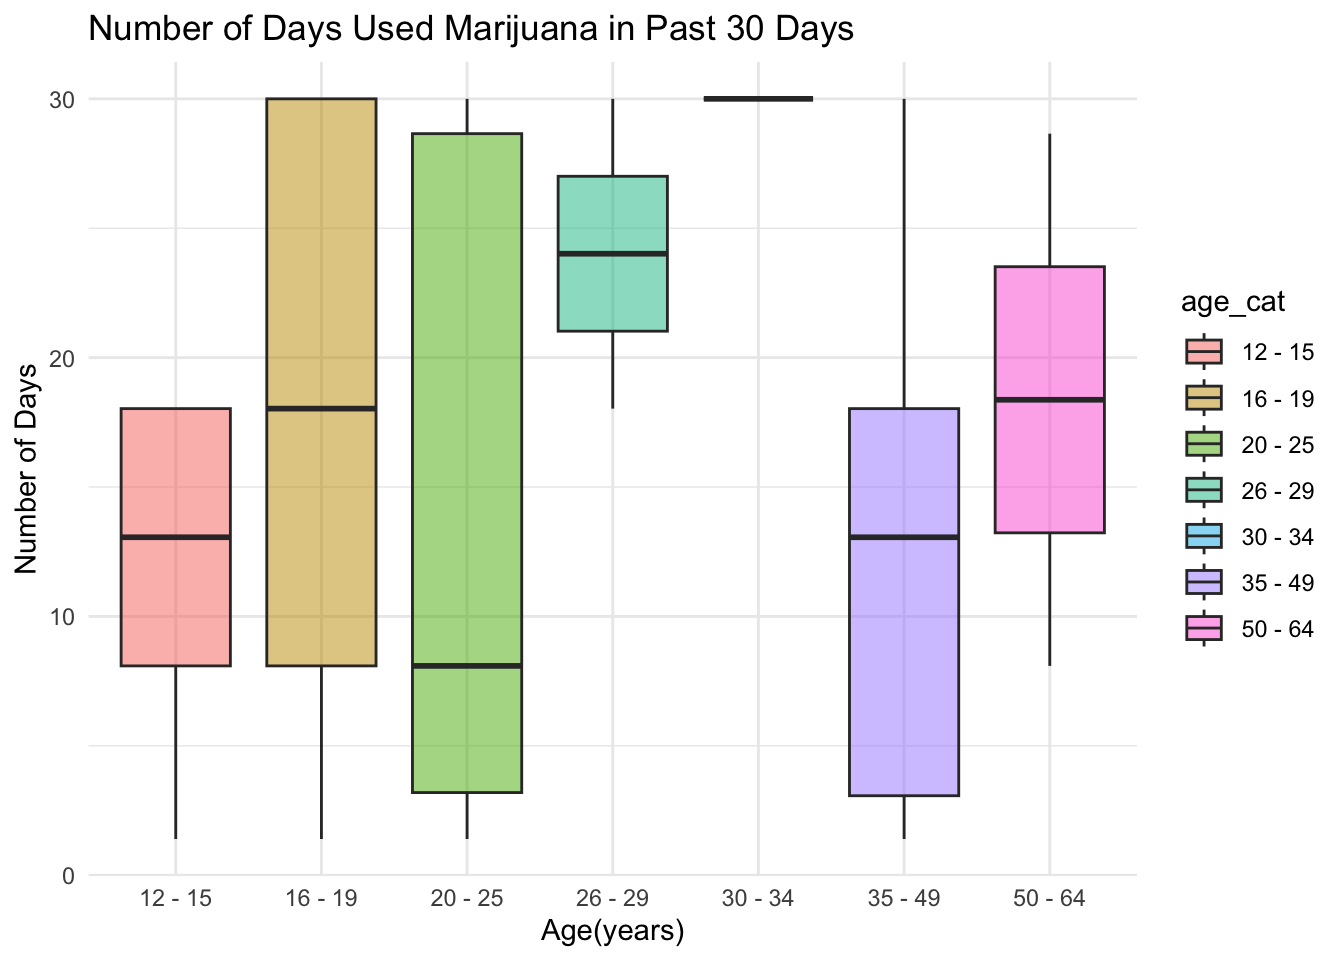
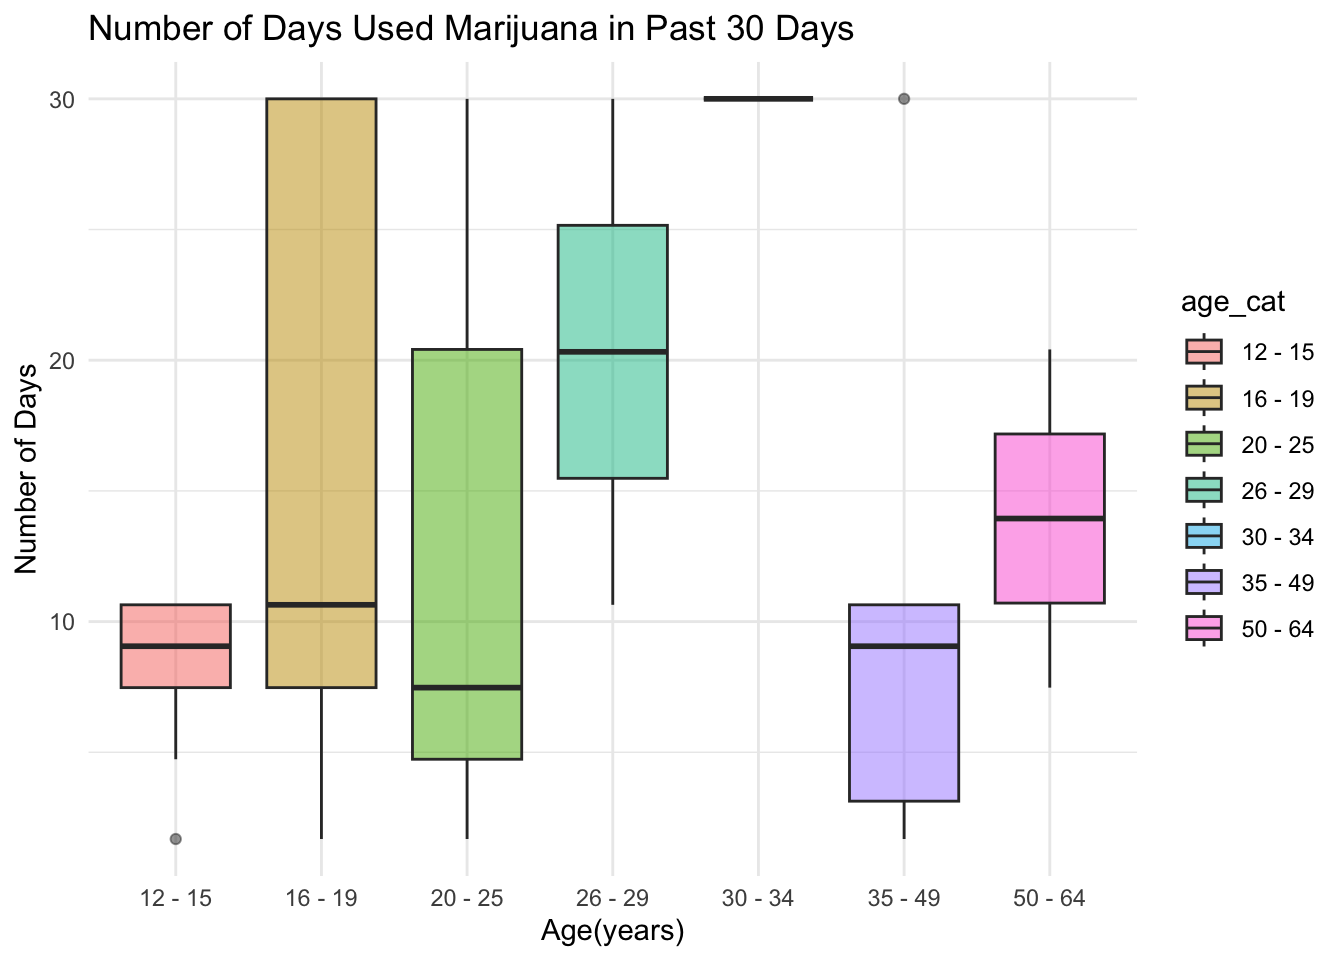
add "data source" in the home bar

diff --git a/Graph_Fendi.html b/Graph_Fendi.html
@@ -262,6 +262,9 @@ $(document).ready(function () {
   <a href="report.html">Project Report</a>
 </li>
 <li>
+  <a href="data_source.html">Data Source</a>
+</li>
+<li>
   <a href="references.html">References</a>
 </li>
 <li>
@@ -299,7 +302,7 @@ $(document).ready(function () {
 #write_csv(nsduh_19, file = &quot;data/nsduh_19.csv&quot;)</code></pre>
 <pre class="r"><code>raw_data = read_csv(&quot;data/nsduh_19.csv&quot;)</code></pre>
 <pre><code>## Rows: 56136 Columns: 15
-## ── Column specification ────────────────────────────────────────────────────────────────────
+## ── Column specification ──────────────────────────────────────────────────────────────────────
 ## Delimiter: &quot;,&quot;
 ## dbl (15): questid2, age2, mr30est, catag6, newrace2, irmjage, mjrec, mrjmon,...
 ## 
@@ -349,19 +352,19 @@ survey.</p>
 <tbody>
 <tr class="odd">
 <td align="left">12 - 15</td>
-<td align="right">119.007</td>
+<td align="right">82.046</td>
 </tr>
 <tr class="even">
 <td align="left">16 - 19</td>
-<td align="right">515.714</td>
+<td align="right">445.479</td>
 </tr>
 <tr class="odd">
 <td align="left">20 - 25</td>
-<td align="right">300.101</td>
+<td align="right">266.854</td>
 </tr>
 <tr class="even">
 <td align="left">26 - 29</td>
-<td align="right">48.030</td>
+<td align="right">40.642</td>
 </tr>
 <tr class="odd">
 <td align="left">30 - 34</td>
@@ -369,11 +372,11 @@ survey.</p>
 </tr>
 <tr class="even">
 <td align="left">35 - 49</td>
-<td align="right">76.946</td>
+<td align="right">62.121</td>
 </tr>
 <tr class="odd">
 <td align="left">50 - 64</td>
-<td align="right">36.743</td>
+<td align="right">27.886</td>
 </tr>
 <tr class="even">
 <td align="left">older_than_65</td>

diff --git a/index.html b/index.html
@@ -340,6 +340,9 @@ div.tocify {
   <a href="report.html">Project Report</a>
 </li>
 <li>
+  <a href="data_source.html">Data Source</a>
+</li>
+<li>
   <a href="references.html">References</a>
 </li>
 <li>
@@ -380,8 +383,8 @@ marijuana is known by different names, such as weed, cannabis, pot, hemp
 etc. It is a mossy type of plant and refers to the dried flowers,
 leaves, stems, and seeds of cannabis plants. People commonly take them
 through smoking, vaping, or consuming marijuana-infused food. Then,
-cannabis will be carried to the brain via blood circulation and bind to
-receptors and further change our behaviours. <br></p>
+cannabis will be carried to the brain via blood circulation. They bind
+to receptors and further change our behaviours. <br></p>
 <p>Marijuana contains more than 100 components (cannabinoids).
 Tetrahydrocannabinol (THC) is the main active component that changes
 people’s mood and behaviour, and causes the “high” (hallucination or
@@ -415,10 +418,13 @@ health burdens, and we would like to propose recommendations for future
 studies and policies. <br></p>
 </div>
 <div id="video-script-cast" class="section level1">
-<h1>Video: script cast</h1>
+<h1><strong>Video: Script Cast</strong></h1>
+</div>
+<div id="website-overview" class="section level1">
+<h1><strong>Website Overview </strong></h1>
 </div>
 <div id="collaborators" class="section level1">
-<h1>Collaborators</h1>
+<h1><strong>Collaborators</strong></h1>
 <p>Fengdi Zhang (fz2328) : <a href="https://github.com/fz2328"
 class="uri">https://github.com/fz2328</a><br />
 Tianyou Wang (tw2838) : <a href="https://github.com/AliceWTY"

diff --git a/Graph_Joyce.html b/Graph_Joyce.html
@@ -606,7 +606,7 @@ padding-top: 0px;
 <div class="sourceCode" id="cb1"><pre class="sourceCode r"><code class="sourceCode r"><span id="cb1-1"><a href="#cb1-1" aria-hidden="true" tabindex="-1"></a><span class="fu">library</span>(tidyverse)</span></code></pre></div>
 <div class="sourceCode" id="cb2"><pre class="sourceCode r"><code class="sourceCode r"><span id="cb2-1"><a href="#cb2-1" aria-hidden="true" tabindex="-1"></a>info_scatter <span class="ot">=</span> <span class="fu">read_csv</span>(<span class="st">&quot;data/nsduh_19.csv&quot;</span>)</span></code></pre></div>
 <pre><code>## Rows: 56136 Columns: 15
-## ── Column specification ────────────────────────────────────────────────────────────────────
+## ── Column specification ──────────────────────────────────────────────────────────────────────
 ## Delimiter: &quot;,&quot;
 ## dbl (15): questid2, age2, mr30est, catag6, newrace2, irmjage, mjrec, mrjmon,...
 ## 

diff --git a/Descriptive_Info.html b/Descriptive_Info.html
@@ -340,6 +340,9 @@ div.tocify {
   <a href="report.html">Project Report</a>
 </li>
 <li>
+  <a href="data_source.html">Data Source</a>
+</li>
+<li>
   <a href="references.html">References</a>
 </li>
 <li>
@@ -487,19 +490,19 @@ the survey in different age groups.</p>
 <tbody>
 <tr class="odd">
 <td align="left">12 - 15</td>
-<td align="right">79.009</td>
+<td align="right">89.087</td>
 </tr>
 <tr class="even">
 <td align="left">16 - 19</td>
-<td align="right">461.582</td>
+<td align="right">457.297</td>
 </tr>
 <tr class="odd">
 <td align="left">20 - 25</td>
-<td align="right">266.343</td>
+<td align="right">270.866</td>
 </tr>
 <tr class="even">
 <td align="left">26 - 29</td>
-<td align="right">40.342</td>
+<td align="right">42.119</td>
 </tr>
 <tr class="odd">
 <td align="left">30 - 34</td>
@@ -507,11 +510,11 @@ the survey in different age groups.</p>
 </tr>
 <tr class="even">
 <td align="left">35 - 49</td>
-<td align="right">60.197</td>
+<td align="right">65.772</td>
 </tr>
 <tr class="odd">
 <td align="left">50 - 64</td>
-<td align="right">33.654</td>
+<td align="right">31.138</td>
 </tr>
 <tr class="even">
 <td align="left">older_than_65</td>

diff --git a/Graph_Alice.html b/Graph_Alice.html
@@ -262,6 +262,9 @@ $(document).ready(function () {
   <a href="report.html">Project Report</a>
 </li>
 <li>
+  <a href="data_source.html">Data Source</a>
+</li>
+<li>
   <a href="references.html">References</a>
 </li>
 <li>
@@ -290,7 +293,7 @@ $(document).ready(function () {
 <h2>Data Malnipulation</h2>
 <pre class="r"><code>nsduh_df = read_csv(&quot;data/nsduh_19.csv&quot;)</code></pre>
 <pre><code>## Rows: 56136 Columns: 15
-## ── Column specification ────────────────────────────────────────────────────────────────────
+## ── Column specification ──────────────────────────────────────────────────────────────────────
 ## Delimiter: &quot;,&quot;
 ## dbl (15): questid2, age2, mr30est, catag6, newrace2, irmjage, mjrec, mrjmon,...
 ## 

diff --git a/data_source.html b/data_source.html
@@ -9,9 +9,7 @@
 <meta http-equiv="X-UA-Compatible" content="IE=EDGE" />
 
 
-<meta name="author" content="Tianyou Wang" />
 
-<meta name="date" content="2022-12-08" />
 
 <title>data_source</title>
 
@@ -262,6 +260,9 @@ $(document).ready(function () {
   <a href="report.html">Project Report</a>
 </li>
 <li>
+  <a href="data_source.html">Data Source</a>
+</li>
+<li>
   <a href="references.html">References</a>
 </li>
 <li>
@@ -280,8 +281,6 @@ $(document).ready(function () {
 
 
 <h1 class="title toc-ignore">data_source</h1>
-<h4 class="author">Tianyou Wang</h4>
-<h4 class="date">2022-12-08</h4>
 
 </div>
 

diff --git a/mapping.html b/mapping.html
@@ -258,6 +258,9 @@ $(document).ready(function () {
   <a href="report.html">Project Report</a>
 </li>
 <li>
+  <a href="data_source.html">Data Source</a>
+</li>
+<li>
   <a href="references.html">References</a>
 </li>
 <li>

diff --git a/home_page.html b/home_page.html
@@ -336,6 +336,9 @@ div.tocify {
   <a href="report.html">Project Report</a>
 </li>
 <li>
+  <a href="data_source.html">Data Source</a>
+</li>
+<li>
   <a href="references.html">References</a>
 </li>
 <li>

diff --git a/Graph_Joyce.md b/Graph_Joyce.md
@@ -12,7 +12,7 @@ info_scatter = read_csv("data/nsduh_19.csv")
 ```
 
     ## Rows: 56136 Columns: 15
-    ## ── Column specification ────────────────────────────────────────────────────────────────────
+    ## ── Column specification ──────────────────────────────────────────────────────────────────────
     ## Delimiter: ","
     ## dbl (15): questid2, age2, mr30est, catag6, newrace2, irmjage, mjrec, mrjmon,...
     ## 
